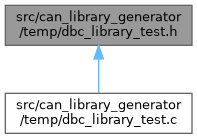
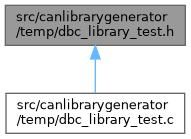
Documentation files 2025-07-14

diff --git a/docs/html/dir_1949c87912af11b03f2554dae1f5f51e.html b/docs/html/dir_1949c87912af11b03f2554dae1f5f51e.html
@@ -5,7 +5,7 @@
 <meta http-equiv="X-UA-Compatible" content="IE=11"/>
 <meta name="generator" content="Doxygen 1.9.8"/>
 <meta name="viewport" content="width=device-width, initial-scale=1"/>
-<title>CAN Library Documentation: src/can_library_generator Directory Reference</title>
+<title>CAN Library Documentation: src/canlibrarygenerator/temp Directory Reference</title>
 <link href="tabs.css" rel="stylesheet" type="text/css"/>
 <script type="text/javascript" src="jquery.js"></script>
 <script type="text/javascript" src="dynsections.js"></script>
@@ -69,27 +69,30 @@ $(function() {
 
 <div id="nav-path" class="navpath">
   <ul>
-<li class="navelem"><a class="el" href="dir_68267d1309a1af8e8297ef4c3efbcdba.html">src</a></li><li class="navelem"><a class="el" href="dir_65c7e3d1771615113caea2ae413a2fb7.html">can_library_generator</a></li>  </ul>
+<li class="navelem"><a class="el" href="dir_68267d1309a1af8e8297ef4c3efbcdba.html">src</a></li><li class="navelem"><a class="el" href="dir_000b17604ea06647d4912343e6e85a88.html">canlibrarygenerator</a></li><li class="navelem"><a class="el" href="dir_1949c87912af11b03f2554dae1f5f51e.html">temp</a></li>  </ul>
 </div>
 </div><!-- top -->
 <div class="header">
-  <div class="headertitle"><div class="title">can_library_generator Directory Reference</div></div>
+  <div class="headertitle"><div class="title">temp Directory Reference</div></div>
 </div><!--header-->
 <div class="contents">
 <div class="dynheader">
-Directory dependency graph for can_library_generator:</div>
+Directory dependency graph for temp:</div>
 <div class="dyncontent">
-<div class="center"><img src="dir_65c7e3d1771615113caea2ae413a2fb7_dep.png" border="0" usemap="#adir__65c7e3d1771615113caea2ae413a2fb7__dep" alt="src/can_library_generator"/></div>
-<map name="adir__65c7e3d1771615113caea2ae413a2fb7__dep" id="adir__65c7e3d1771615113caea2ae413a2fb7__dep">
-<area shape="rect" href="dir_5a067c7e8ec1ea5fa715099846176062.html" title="temp" alt="" coords="37,63,93,88"/>
-<area shape="rect" href="dir_65c7e3d1771615113caea2ae413a2fb7.html" alt="" coords="27,52,293,99"/>
-<area shape="rect" href="dir_68267d1309a1af8e8297ef4c3efbcdba.html" title="src" alt="" coords="16,16,304,109"/>
+<div class="center"><img src="dir_1949c87912af11b03f2554dae1f5f51e_dep.png" border="0" usemap="#adir__1949c87912af11b03f2554dae1f5f51e__dep" alt="src/canlibrarygenerator/temp"/></div>
+<map name="adir__1949c87912af11b03f2554dae1f5f51e__dep" id="adir__1949c87912af11b03f2554dae1f5f51e__dep">
+<area shape="rect" href="dir_1949c87912af11b03f2554dae1f5f51e.html" title="temp" alt="" coords="63,52,119,77"/>
+<area shape="rect" href="dir_000b17604ea06647d4912343e6e85a88.html" title="canlibrarygenerator" alt="" coords="16,16,167,88"/>
 </map>
 </div>
 <table class="memberdecls">
-<tr class="heading"><td colspan="2"><h2 class="groupheader"><a id="subdirs" name="subdirs"></a>
-Directories</h2></td></tr>
-<tr class="memitem:"><td class="memItemLeft" align="right" valign="top"><span class="iconfclosed"></span>&#160;</td><td class="memItemRight" valign="bottom"><a class="el" href="dir_5a067c7e8ec1ea5fa715099846176062.html">temp</a></td></tr>
+<tr class="heading"><td colspan="2"><h2 class="groupheader"><a id="files" name="files"></a>
+Files</h2></td></tr>
+<tr class="memitem:"><td class="memItemLeft" align="right" valign="top"><span class="icondoc"></span>&#160;</td><td class="memItemRight" valign="bottom"><a class="el" href="dbc__library__test_8c.html">dbc_library_test.c</a></td></tr>
+<tr class="memdesc:dbc__library__test_8c"><td class="mdescLeft">&#160;</td><td class="mdescRight">Defines the core structures and functions for CAN communication. <br /></td></tr>
+<tr class="separator:"><td class="memSeparator" colspan="2">&#160;</td></tr>
+<tr class="memitem:"><td class="memItemLeft" align="right" valign="top"><a href="dbc__library__test_8h_source.html"><span class="icondoc"></span></a>&#160;</td><td class="memItemRight" valign="bottom"><a class="el" href="dbc__library__test_8h.html">dbc_library_test.h</a></td></tr>
+<tr class="memdesc:dbc__library__test_8h"><td class="mdescLeft">&#160;</td><td class="mdescRight">Defines the core structures and functions for CAN communication. <br /></td></tr>
 <tr class="separator:"><td class="memSeparator" colspan="2">&#160;</td></tr>
 </table>
 </div><!-- contents -->

diff --git a/docs/html/dir_000b17604ea06647d4912343e6e85a88.html b/docs/html/dir_000b17604ea06647d4912343e6e85a88.html
@@ -5,7 +5,7 @@
 <meta http-equiv="X-UA-Compatible" content="IE=11"/>
 <meta name="generator" content="Doxygen 1.9.8"/>
 <meta name="viewport" content="width=device-width, initial-scale=1"/>
-<title>CAN Library Documentation: src/can_library_generator/temp Directory Reference</title>
+<title>CAN Library Documentation: src/canlibrarygenerator Directory Reference</title>
 <link href="tabs.css" rel="stylesheet" type="text/css"/>
 <script type="text/javascript" src="jquery.js"></script>
 <script type="text/javascript" src="dynsections.js"></script>
@@ -69,30 +69,27 @@ $(function() {
 
 <div id="nav-path" class="navpath">
   <ul>
-<li class="navelem"><a class="el" href="dir_68267d1309a1af8e8297ef4c3efbcdba.html">src</a></li><li class="navelem"><a class="el" href="dir_65c7e3d1771615113caea2ae413a2fb7.html">can_library_generator</a></li><li class="navelem"><a class="el" href="dir_5a067c7e8ec1ea5fa715099846176062.html">temp</a></li>  </ul>
+<li class="navelem"><a class="el" href="dir_68267d1309a1af8e8297ef4c3efbcdba.html">src</a></li><li class="navelem"><a class="el" href="dir_000b17604ea06647d4912343e6e85a88.html">canlibrarygenerator</a></li>  </ul>
 </div>
 </div><!-- top -->
 <div class="header">
-  <div class="headertitle"><div class="title">temp Directory Reference</div></div>
+  <div class="headertitle"><div class="title">canlibrarygenerator Directory Reference</div></div>
 </div><!--header-->
 <div class="contents">
 <div class="dynheader">
-Directory dependency graph for temp:</div>
+Directory dependency graph for canlibrarygenerator:</div>
 <div class="dyncontent">
-<div class="center"><img src="dir_5a067c7e8ec1ea5fa715099846176062_dep.png" border="0" usemap="#adir__5a067c7e8ec1ea5fa715099846176062__dep" alt="src/can_library_generator/temp"/></div>
-<map name="adir__5a067c7e8ec1ea5fa715099846176062__dep" id="adir__5a067c7e8ec1ea5fa715099846176062__dep">
-<area shape="rect" href="dir_5a067c7e8ec1ea5fa715099846176062.html" title="temp" alt="" coords="69,52,125,77"/>
-<area shape="rect" href="dir_65c7e3d1771615113caea2ae413a2fb7.html" title="can_library_generator" alt="" coords="16,16,180,88"/>
+<div class="center"><img src="dir_000b17604ea06647d4912343e6e85a88_dep.png" border="0" usemap="#adir__000b17604ea06647d4912343e6e85a88__dep" alt="src/canlibrarygenerator"/></div>
+<map name="adir__000b17604ea06647d4912343e6e85a88__dep" id="adir__000b17604ea06647d4912343e6e85a88__dep">
+<area shape="rect" href="dir_1949c87912af11b03f2554dae1f5f51e.html" title="temp" alt="" coords="37,63,93,88"/>
+<area shape="rect" href="dir_000b17604ea06647d4912343e6e85a88.html" alt="" coords="27,52,280,99"/>
+<area shape="rect" href="dir_68267d1309a1af8e8297ef4c3efbcdba.html" title="src" alt="" coords="16,16,291,109"/>
 </map>
 </div>
 <table class="memberdecls">
-<tr class="heading"><td colspan="2"><h2 class="groupheader"><a id="files" name="files"></a>
-Files</h2></td></tr>
-<tr class="memitem:"><td class="memItemLeft" align="right" valign="top"><span class="icondoc"></span>&#160;</td><td class="memItemRight" valign="bottom"><a class="el" href="dbc__library__test_8c.html">dbc_library_test.c</a></td></tr>
-<tr class="memdesc:dbc__library__test_8c"><td class="mdescLeft">&#160;</td><td class="mdescRight">Defines the core structures and functions for CAN communication. <br /></td></tr>
-<tr class="separator:"><td class="memSeparator" colspan="2">&#160;</td></tr>
-<tr class="memitem:"><td class="memItemLeft" align="right" valign="top"><a href="dbc__library__test_8h_source.html"><span class="icondoc"></span></a>&#160;</td><td class="memItemRight" valign="bottom"><a class="el" href="dbc__library__test_8h.html">dbc_library_test.h</a></td></tr>
-<tr class="memdesc:dbc__library__test_8h"><td class="mdescLeft">&#160;</td><td class="mdescRight">Defines the core structures and functions for CAN communication. <br /></td></tr>
+<tr class="heading"><td colspan="2"><h2 class="groupheader"><a id="subdirs" name="subdirs"></a>
+Directories</h2></td></tr>
+<tr class="memitem:"><td class="memItemLeft" align="right" valign="top"><span class="iconfclosed"></span>&#160;</td><td class="memItemRight" valign="bottom"><a class="el" href="dir_1949c87912af11b03f2554dae1f5f51e.html">temp</a></td></tr>
 <tr class="separator:"><td class="memSeparator" colspan="2">&#160;</td></tr>
 </table>
 </div><!-- contents -->

diff --git a/docs/html/dbc__library__test_8h.html b/docs/html/dbc__library__test_8h.html
@@ -5,7 +5,7 @@
 <meta http-equiv="X-UA-Compatible" content="IE=11"/>
 <meta name="generator" content="Doxygen 1.9.8"/>
 <meta name="viewport" content="width=device-width, initial-scale=1"/>
-<title>CAN Library Documentation: src/can_library_generator/temp/dbc_library_test.h File Reference</title>
+<title>CAN Library Documentation: src/canlibrarygenerator/temp/dbc_library_test.h File Reference</title>
 <link href="tabs.css" rel="stylesheet" type="text/css"/>
 <script type="text/javascript" src="jquery.js"></script>
 <script type="text/javascript" src="dynsections.js"></script>
@@ -69,7 +69,7 @@ $(function() {
 
 <div id="nav-path" class="navpath">
   <ul>
-<li class="navelem"><a class="el" href="dir_68267d1309a1af8e8297ef4c3efbcdba.html">src</a></li><li class="navelem"><a class="el" href="dir_65c7e3d1771615113caea2ae413a2fb7.html">can_library_generator</a></li><li class="navelem"><a class="el" href="dir_5a067c7e8ec1ea5fa715099846176062.html">temp</a></li>  </ul>
+<li class="navelem"><a class="el" href="dir_68267d1309a1af8e8297ef4c3efbcdba.html">src</a></li><li class="navelem"><a class="el" href="dir_000b17604ea06647d4912343e6e85a88.html">canlibrarygenerator</a></li><li class="navelem"><a class="el" href="dir_1949c87912af11b03f2554dae1f5f51e.html">temp</a></li>  </ul>
 </div>
 </div><!-- top -->
 <div class="header">
@@ -89,9 +89,9 @@ $(function() {
 </div><div class="textblock"><div class="dynheader">
 Include dependency graph for dbc_library_test.h:</div>
 <div class="dyncontent">
-<div class="center"><img src="dbc__library__test_8h__incl.png" border="0" usemap="#asrc_2can__library__generator_2temp_2dbc__library__test_8h" alt=""/></div>
-<map name="asrc_2can__library__generator_2temp_2dbc__library__test_8h" id="asrc_2can__library__generator_2temp_2dbc__library__test_8h">
-<area shape="rect" title="Defines the core structures and functions for CAN communication." alt="" coords="89,5,275,45"/>
+<div class="center"><img src="dbc__library__test_8h__incl.png" border="0" usemap="#asrc_2canlibrarygenerator_2temp_2dbc__library__test_8h" alt=""/></div>
+<map name="asrc_2canlibrarygenerator_2temp_2dbc__library__test_8h" id="asrc_2canlibrarygenerator_2temp_2dbc__library__test_8h">
+<area shape="rect" title="Defines the core structures and functions for CAN communication." alt="" coords="92,5,272,45"/>
 <area shape="rect" title=" " alt="" coords="5,93,76,119"/>
 <area shape="poly" title=" " alt="" coords="149,48,75,89,73,84,147,43"/>
 <area shape="rect" title=" " alt="" coords="100,93,171,119"/>
@@ -105,11 +105,11 @@ Include dependency graph for dbc_library_test.h:</div>
 </div><div class="textblock"><div class="dynheader">
 This graph shows which files directly or indirectly include this file:</div>
 <div class="dyncontent">
-<div class="center"><img src="dbc__library__test_8h__dep__incl.png" border="0" usemap="#asrc_2can__library__generator_2temp_2dbc__library__test_8hdep" alt=""/></div>
-<map name="asrc_2can__library__generator_2temp_2dbc__library__test_8hdep" id="asrc_2can__library__generator_2temp_2dbc__library__test_8hdep">
-<area shape="rect" title="Defines the core structures and functions for CAN communication." alt="" coords="5,5,192,45"/>
-<area shape="rect" href="dbc__library__test_8c.html" title="Defines the core structures and functions for CAN communication." alt="" coords="5,93,192,133"/>
-<area shape="poly" title=" " alt="" coords="101,59,101,93,96,93,96,59"/>
+<div class="center"><img src="dbc__library__test_8h__dep__incl.png" border="0" usemap="#asrc_2canlibrarygenerator_2temp_2dbc__library__test_8hdep" alt=""/></div>
+<map name="asrc_2canlibrarygenerator_2temp_2dbc__library__test_8hdep" id="asrc_2canlibrarygenerator_2temp_2dbc__library__test_8hdep">
+<area shape="rect" title="Defines the core structures and functions for CAN communication." alt="" coords="5,5,185,45"/>
+<area shape="rect" href="dbc__library__test_8c.html" title="Defines the core structures and functions for CAN communication." alt="" coords="6,93,185,133"/>
+<area shape="poly" title=" " alt="" coords="98,59,98,93,93,93,93,59"/>
 </map>
 </div>
 </div>

diff --git a/docs/html/files.html b/docs/html/files.html
@@ -75,8 +75,8 @@ $(function() {
 <div class="textblock">Here is a list of all documented files with brief descriptions:</div><div class="directory">
 <div class="levels">[detail level <span onclick="javascript:toggleLevel(1);">1</span><span onclick="javascript:toggleLevel(2);">2</span><span onclick="javascript:toggleLevel(3);">3</span><span onclick="javascript:toggleLevel(4);">4</span>]</div><table class="directory">
 <tr id="row_0_" class="even"><td class="entry"><span style="width:0px;display:inline-block;">&#160;</span><span id="arr_0_" class="arrow" onclick="toggleFolder('0_')">&#9660;</span><span id="img_0_" class="iconfopen" onclick="toggleFolder('0_')">&#160;</span><a class="el" href="dir_68267d1309a1af8e8297ef4c3efbcdba.html" target="_self">src</a></td><td class="desc"></td></tr>
-<tr id="row_0_0_" class="odd"><td class="entry"><span style="width:16px;display:inline-block;">&#160;</span><span id="arr_0_0_" class="arrow" onclick="toggleFolder('0_0_')">&#9660;</span><span id="img_0_0_" class="iconfopen" onclick="toggleFolder('0_0_')">&#160;</span><a class="el" href="dir_65c7e3d1771615113caea2ae413a2fb7.html" target="_self">can_library_generator</a></td><td class="desc"></td></tr>
-<tr id="row_0_0_0_" class="even"><td class="entry"><span style="width:32px;display:inline-block;">&#160;</span><span id="arr_0_0_0_" class="arrow" onclick="toggleFolder('0_0_0_')">&#9660;</span><span id="img_0_0_0_" class="iconfopen" onclick="toggleFolder('0_0_0_')">&#160;</span><a class="el" href="dir_5a067c7e8ec1ea5fa715099846176062.html" target="_self">temp</a></td><td class="desc"></td></tr>
+<tr id="row_0_0_" class="odd"><td class="entry"><span style="width:16px;display:inline-block;">&#160;</span><span id="arr_0_0_" class="arrow" onclick="toggleFolder('0_0_')">&#9660;</span><span id="img_0_0_" class="iconfopen" onclick="toggleFolder('0_0_')">&#160;</span><a class="el" href="dir_000b17604ea06647d4912343e6e85a88.html" target="_self">canlibrarygenerator</a></td><td class="desc"></td></tr>
+<tr id="row_0_0_0_" class="even"><td class="entry"><span style="width:32px;display:inline-block;">&#160;</span><span id="arr_0_0_0_" class="arrow" onclick="toggleFolder('0_0_0_')">&#9660;</span><span id="img_0_0_0_" class="iconfopen" onclick="toggleFolder('0_0_0_')">&#160;</span><a class="el" href="dir_1949c87912af11b03f2554dae1f5f51e.html" target="_self">temp</a></td><td class="desc"></td></tr>
 <tr id="row_0_0_0_0_" class="odd"><td class="entry"><span style="width:64px;display:inline-block;">&#160;</span><span class="icondoc"></span><a class="el" href="dbc__library__test_8c.html" target="_self">dbc_library_test.c</a></td><td class="desc">Defines the core structures and functions for CAN communication </td></tr>
 <tr id="row_0_0_0_1_" class="even"><td class="entry"><span style="width:64px;display:inline-block;">&#160;</span><a href="dbc__library__test_8h_source.html"><span class="icondoc"></span></a><a class="el" href="dbc__library__test_8h.html" target="_self">dbc_library_test.h</a></td><td class="desc">Defines the core structures and functions for CAN communication </td></tr>
 </table>

diff --git a/docs/html/dbc__library__test_8c.html b/docs/html/dbc__library__test_8c.html
@@ -5,7 +5,7 @@
 <meta http-equiv="X-UA-Compatible" content="IE=11"/>
 <meta name="generator" content="Doxygen 1.9.8"/>
 <meta name="viewport" content="width=device-width, initial-scale=1"/>
-<title>CAN Library Documentation: src/can_library_generator/temp/dbc_library_test.c File Reference</title>
+<title>CAN Library Documentation: src/canlibrarygenerator/temp/dbc_library_test.c File Reference</title>
 <link href="tabs.css" rel="stylesheet" type="text/css"/>
 <script type="text/javascript" src="jquery.js"></script>
 <script type="text/javascript" src="dynsections.js"></script>
@@ -69,7 +69,7 @@ $(function() {
 
 <div id="nav-path" class="navpath">
   <ul>
-<li class="navelem"><a class="el" href="dir_68267d1309a1af8e8297ef4c3efbcdba.html">src</a></li><li class="navelem"><a class="el" href="dir_65c7e3d1771615113caea2ae413a2fb7.html">can_library_generator</a></li><li class="navelem"><a class="el" href="dir_5a067c7e8ec1ea5fa715099846176062.html">temp</a></li>  </ul>
+<li class="navelem"><a class="el" href="dir_68267d1309a1af8e8297ef4c3efbcdba.html">src</a></li><li class="navelem"><a class="el" href="dir_000b17604ea06647d4912343e6e85a88.html">canlibrarygenerator</a></li><li class="navelem"><a class="el" href="dir_1949c87912af11b03f2554dae1f5f51e.html">temp</a></li>  </ul>
 </div>
 </div><!-- top -->
 <div class="header">
@@ -85,9 +85,9 @@ $(function() {
 </div><div class="textblock"><div class="dynheader">
 Include dependency graph for dbc_library_test.c:</div>
 <div class="dyncontent">
-<div class="center"><img src="dbc__library__test_8c__incl.png" border="0" usemap="#asrc_2can__library__generator_2temp_2dbc__library__test_8c" alt=""/></div>
-<map name="asrc_2can__library__generator_2temp_2dbc__library__test_8c" id="asrc_2can__library__generator_2temp_2dbc__library__test_8c">
-<area shape="rect" title="Defines the core structures and functions for CAN communication." alt="" coords="89,5,275,45"/>
+<div class="center"><img src="dbc__library__test_8c__incl.png" border="0" usemap="#asrc_2canlibrarygenerator_2temp_2dbc__library__test_8c" alt=""/></div>
+<map name="asrc_2canlibrarygenerator_2temp_2dbc__library__test_8c" id="asrc_2canlibrarygenerator_2temp_2dbc__library__test_8c">
+<area shape="rect" title="Defines the core structures and functions for CAN communication." alt="" coords="93,5,271,45"/>
 <area shape="rect" href="dbc__library__test_8h.html" title="Defines the core structures and functions for CAN communication." alt="" coords="113,93,251,119"/>
 <area shape="poly" title=" " alt="" coords="185,46,185,79,179,79,179,46"/>
 <area shape="rect" title=" " alt="" coords="5,167,76,192"/>

diff --git a/docs/html/dbc__library__test_8h_source.html b/docs/html/dbc__library__test_8h_source.html
@@ -5,7 +5,7 @@
 <meta http-equiv="X-UA-Compatible" content="IE=11"/>
 <meta name="generator" content="Doxygen 1.9.8"/>
 <meta name="viewport" content="width=device-width, initial-scale=1"/>
-<title>CAN Library Documentation: src/can_library_generator/temp/dbc_library_test.h Source File</title>
+<title>CAN Library Documentation: src/canlibrarygenerator/temp/dbc_library_test.h Source File</title>
 <link href="tabs.css" rel="stylesheet" type="text/css"/>
 <script type="text/javascript" src="jquery.js"></script>
 <script type="text/javascript" src="dynsections.js"></script>
@@ -74,7 +74,7 @@ $(document).ready(function() { init_codefold(0); });
 
 <div id="nav-path" class="navpath">
   <ul>
-<li class="navelem"><a class="el" href="dir_68267d1309a1af8e8297ef4c3efbcdba.html">src</a></li><li class="navelem"><a class="el" href="dir_65c7e3d1771615113caea2ae413a2fb7.html">can_library_generator</a></li><li class="navelem"><a class="el" href="dir_5a067c7e8ec1ea5fa715099846176062.html">temp</a></li>  </ul>
+<li class="navelem"><a class="el" href="dir_68267d1309a1af8e8297ef4c3efbcdba.html">src</a></li><li class="navelem"><a class="el" href="dir_000b17604ea06647d4912343e6e85a88.html">canlibrarygenerator</a></li><li class="navelem"><a class="el" href="dir_1949c87912af11b03f2554dae1f5f51e.html">temp</a></li>  </ul>
 </div>
 </div><!-- top -->
 <div class="header">

diff --git a/docs/html/structDBCMessageBase.html b/docs/html/structDBCMessageBase.html
@@ -200,7 +200,7 @@ Public Attributes</h2></td></tr>
 </div>
 </div>
 <hr/>The documentation for this struct was generated from the following file:<ul>
-<li>src/can_library_generator/temp/<a class="el" href="dbc__library__test_8h_source.html">dbc_library_test.h</a></li>
+<li>src/canlibrarygenerator/temp/<a class="el" href="dbc__library__test_8h_source.html">dbc_library_test.h</a></li>
 </ul>
 </div><!-- contents -->
 <!-- start footer part -->

diff --git a/docs/html/structDBCSignal.html b/docs/html/structDBCSignal.html
@@ -309,7 +309,7 @@ Public Attributes</h2></td></tr>
 </div>
 </div>
 <hr/>The documentation for this struct was generated from the following file:<ul>
-<li>src/can_library_generator/temp/<a class="el" href="dbc__library__test_8h_source.html">dbc_library_test.h</a></li>
+<li>src/canlibrarygenerator/temp/<a class="el" href="dbc__library__test_8h_source.html">dbc_library_test.h</a></li>
 </ul>
 </div><!-- contents -->
 <!-- start footer part -->

diff --git a/docs/latex/files.tex b/docs/latex/files.tex
@@ -1,5 +1,5 @@
 \doxysubsection{File List}
 Here is a list of all documented files with brief descriptions\+:\begin{DoxyCompactList}
-\item\contentsline{section}{src/can\+\_\+library\+\_\+generator/temp/\mbox{\hyperlink{dbc__library__test_8c}{dbc\+\_\+library\+\_\+test.\+c}} \\*Defines the core structures and functions for CAN communication }{\pageref{dbc__library__test_8c}}{}
-\item\contentsline{section}{src/can\+\_\+library\+\_\+generator/temp/\mbox{\hyperlink{dbc__library__test_8h}{dbc\+\_\+library\+\_\+test.\+h}} \\*Defines the core structures and functions for CAN communication }{\pageref{dbc__library__test_8h}}{}
+\item\contentsline{section}{src/canlibrarygenerator/temp/\mbox{\hyperlink{dbc__library__test_8c}{dbc\+\_\+library\+\_\+test.\+c}} \\*Defines the core structures and functions for CAN communication }{\pageref{dbc__library__test_8c}}{}
+\item\contentsline{section}{src/canlibrarygenerator/temp/\mbox{\hyperlink{dbc__library__test_8h}{dbc\+\_\+library\+\_\+test.\+h}} \\*Defines the core structures and functions for CAN communication }{\pageref{dbc__library__test_8h}}{}
 \end{DoxyCompactList}

diff --git a/docs/latex/dbc__library__test_8h.tex b/docs/latex/dbc__library__test_8h.tex
@@ -1,5 +1,5 @@
-\doxysubsection{src/can\+\_\+library\+\_\+generator/temp/dbc\+\_\+library\+\_\+test.h File Reference}
-\hypertarget{dbc__library__test_8h}{}\label{dbc__library__test_8h}\index{src/can\_library\_generator/temp/dbc\_library\_test.h@{src/can\_library\_generator/temp/dbc\_library\_test.h}}
+\doxysubsection{src/canlibrarygenerator/temp/dbc\+\_\+library\+\_\+test.h File Reference}
+\hypertarget{dbc__library__test_8h}{}\label{dbc__library__test_8h}\index{src/canlibrarygenerator/temp/dbc\_library\_test.h@{src/canlibrarygenerator/temp/dbc\_library\_test.h}}
 
 
 Defines the core structures and functions for CAN communication.  
@@ -22,7 +22,7 @@ This graph shows which files directly or indirectly include this file\+:
 \begin{figure}[H]
 \begin{center}
 \leavevmode
-\includegraphics[width=220pt]{dbc__library__test_8h__dep__incl}
+\includegraphics[width=215pt]{dbc__library__test_8h__dep__incl}
 \end{center}
 \end{figure}
 \doxysubsubsubsection*{Classes}

diff --git a/docs/latex/dbc__library__test_8h_source.tex b/docs/latex/dbc__library__test_8h_source.tex
@@ -1,5 +1,5 @@
 \doxysubsection{dbc\+\_\+library\+\_\+test.\+h}
-\hypertarget{dbc__library__test_8h_source}{}\label{dbc__library__test_8h_source}\index{src/can\_library\_generator/temp/dbc\_library\_test.h@{src/can\_library\_generator/temp/dbc\_library\_test.h}}
+\hypertarget{dbc__library__test_8h_source}{}\label{dbc__library__test_8h_source}\index{src/canlibrarygenerator/temp/dbc\_library\_test.h@{src/canlibrarygenerator/temp/dbc\_library\_test.h}}
 \mbox{\hyperlink{dbc__library__test_8h}{Go to the documentation of this file.}}
 \begin{DoxyCode}{0}
 \DoxyCodeLine{00001\ \textcolor{comment}{/*******************************************************************************}}

diff --git a/docs/latex/dbc__library__test_8c.tex b/docs/latex/dbc__library__test_8c.tex
@@ -1,5 +1,5 @@
-\doxysubsection{src/can\+\_\+library\+\_\+generator/temp/dbc\+\_\+library\+\_\+test.c File Reference}
-\hypertarget{dbc__library__test_8c}{}\label{dbc__library__test_8c}\index{src/can\_library\_generator/temp/dbc\_library\_test.c@{src/can\_library\_generator/temp/dbc\_library\_test.c}}
+\doxysubsection{src/canlibrarygenerator/temp/dbc\+\_\+library\+\_\+test.c File Reference}
+\hypertarget{dbc__library__test_8c}{}\label{dbc__library__test_8c}\index{src/canlibrarygenerator/temp/dbc\_library\_test.c@{src/canlibrarygenerator/temp/dbc\_library\_test.c}}
 
 
 Defines the core structures and functions for CAN communication.  
